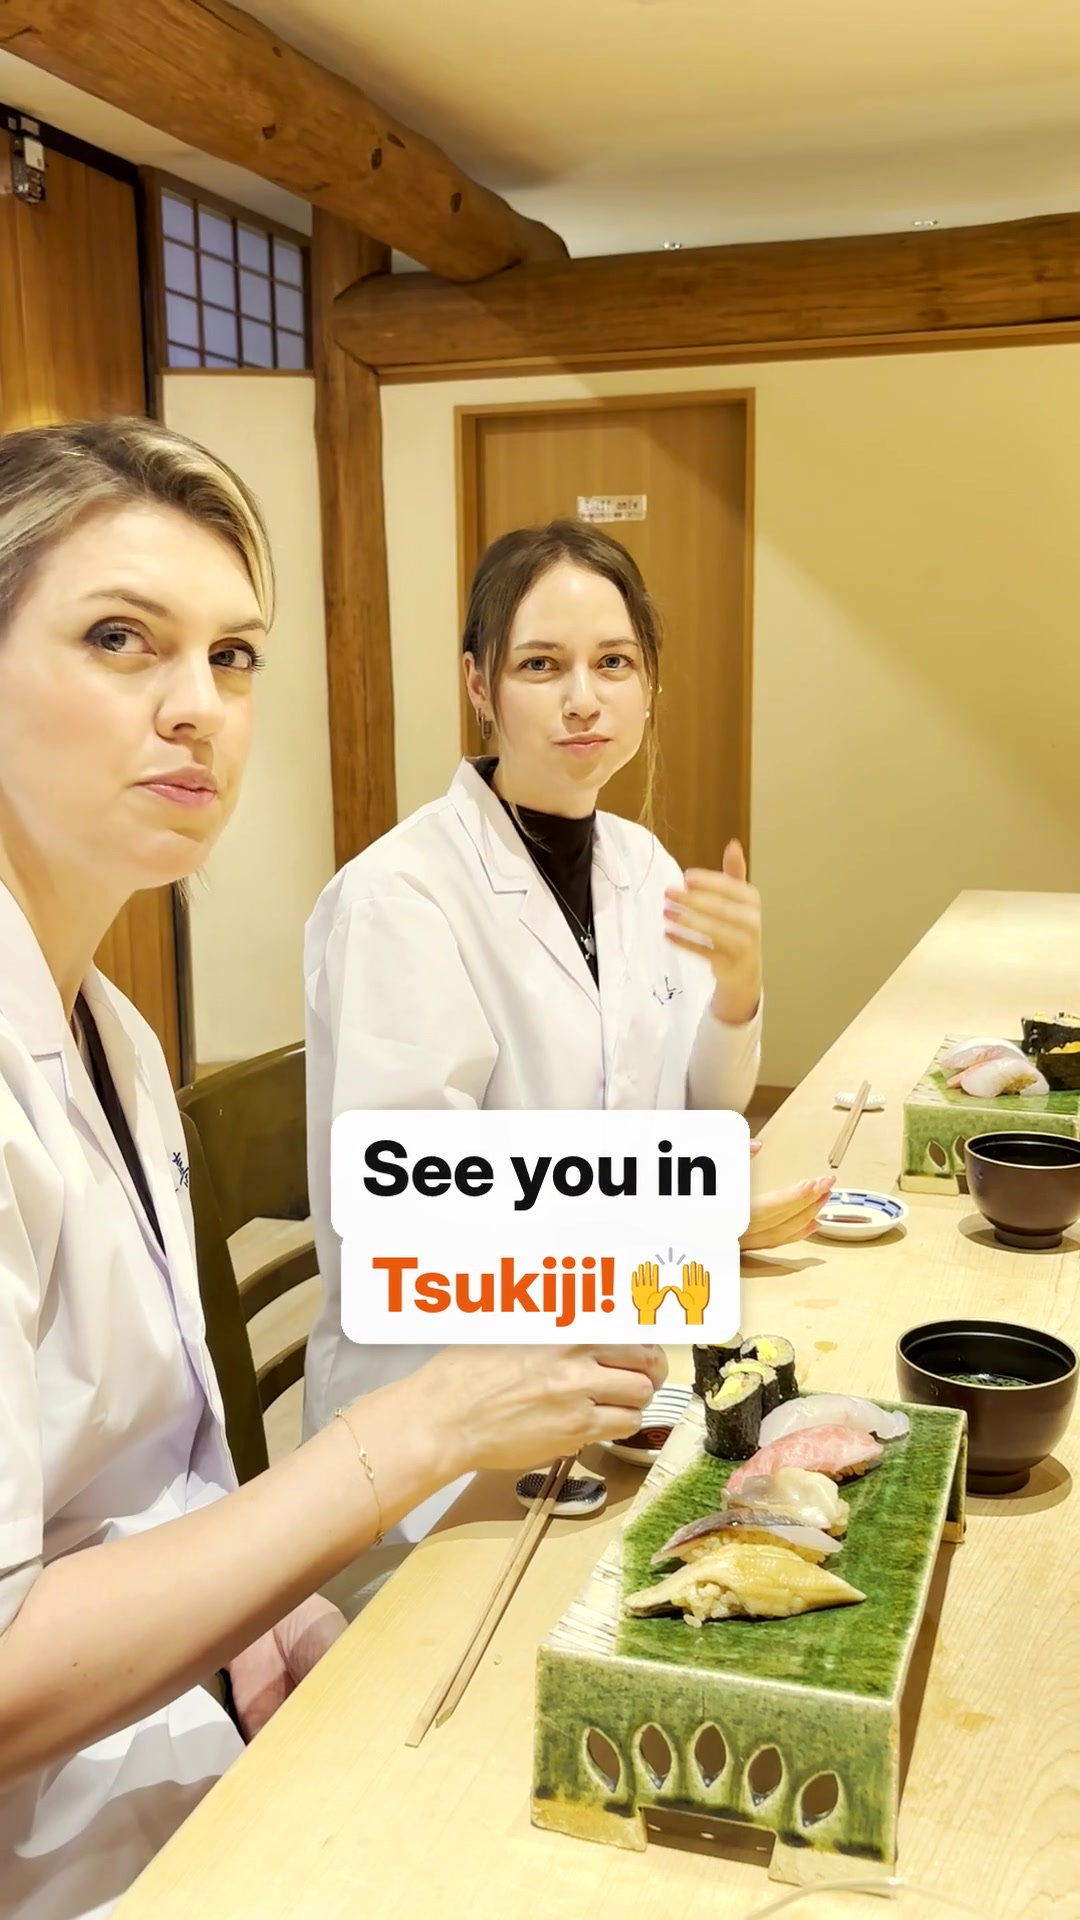
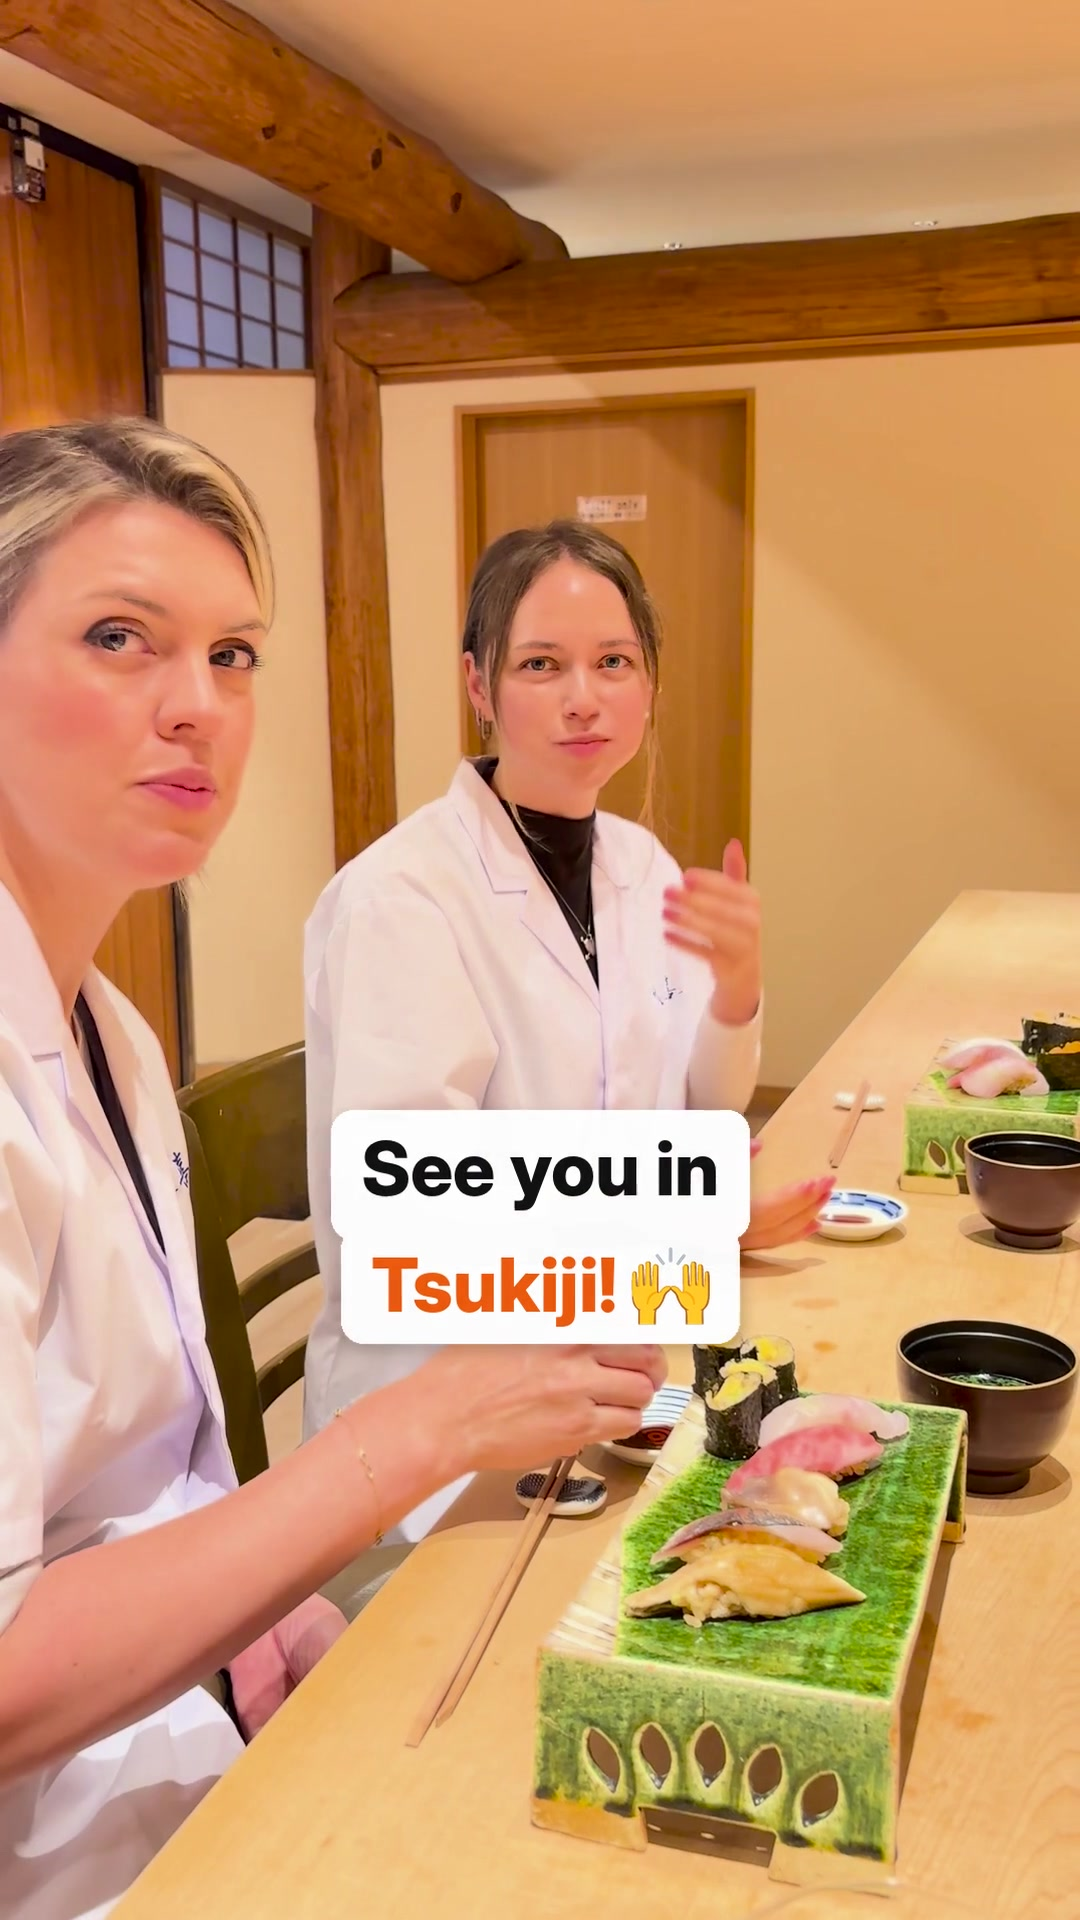
004作り直し：HDR素材をトーンマップしてオリジナルの色に（色加工なし）
Claude-Session: https://claude.ai/code/session_01RyJ5xhuQ5T9iHaCgxofhZy

diff --git a/pipeline/build_reel.py b/pipeline/build_reel.py
@@ -142,6 +142,18 @@ def grade_vf(src, t, ref, k_bright=0.5):
 
 
 BASE_LOOK = "eq=saturation=1.08:contrast=1.03"
+_hdr_cache = {}
+
+
+def hdr_vf(src):
+    if src not in _hdr_cache:
+        tr = subprocess.run(["ffprobe", "-v", "error", "-select_streams", "v:0", "-show_entries",
+                             "stream=color_transfer", "-of", "csv=p=0", src],
+                            capture_output=True, text=True).stdout.strip().strip(",")
+        _hdr_cache[src] = ("zscale=t=linear:npl=203,format=gbrpf32le,zscale=p=bt709,"
+                           "tonemap=mobius:desat=0,zscale=t=bt709:m=bt709:r=tv,format=yuv420p,"
+                           if tr in ("arib-std-b67", "smpte2084") else "")
+    return _hdr_cache[src]
 
 
 def warm_vf(src, t, post):
@@ -185,13 +197,18 @@ for bi, beat in enumerate(spec["beats"]):
     beat_start += bdur
     for c in beat["clips"]:
         out = os.path.join(tmp, f"seg{n:02d}.mp4")
-        if spec.get("look"):
+        if spec.get("original_color"):
+            look = "null"      # 2026-11-12: Shun wants the camera's own colours, no grading
+        elif spec.get("look"):
             look = warm_vf(find_src(c["src"]), c["in"] + min(0.5, c["dur"] / 2), spec["look"]["post"])
         elif REF and not (c["src"] == spec["match_ref"]["src"]):
             look = grade_vf(find_src(c["src"]), c["in"], REF)
         else:
             look = BASE_LOOK
-        vf = (f"[0:v]scale={W}:{H}:force_original_aspect_ratio=increase,crop={W}:{H},"
+        # iPhone HDR clips (HLG / Dolby Vision, from 2026-11-10 on) must be tone-mapped to SDR,
+        # otherwise they come out flat and washed-out. SDR clips pass through untouched.
+        tm = hdr_vf(find_src(c["src"]))
+        vf = (f"[0:v]{tm}scale={W}:{H}:force_original_aspect_ratio=increase,crop={W}:{H},"
               f"fps=30,{look},setsar=1[v];[v][1:v]overlay=0:0,format=yuv420p[o];"
               # real room sound: clean rumble, even out level between clips, soft edges at the cuts
               f"[0:a]aresample=48000,highpass=f=90,dynaudnorm=f=150:g=15:p=0.7,volume={ORIG_GAIN * c.get('vol', 1.0)},"

diff --git a/docs/video_style.md b/docs/video_style.md
@@ -10,7 +10,8 @@
 - 主役は**体験しているゲストの笑顔**。握る瞬間、食べた瞬間のリアクション、乾杯、集合写真を優先して使う
 - 縦 9:16、1080x1920、25〜30秒、1カット1〜2秒
 - 素材の質感（築地の本物のカウンター、職人、日本酒）は残す
-- **色味は自然な色をベースに、オレンジ味を強めに・明るめ、全カット統一**（しゅん指定 2026-11-12 最終。「薄い」とのことで彩度・コントラストを上げて濃いめに。強いオレンジは「不自然」、ほぼ自然な色は「違和感」で、その中間に決定）。edit.json に `"look": {"post": "colorchannelmixer=rr=1.06:gg=1.0:bb=0.86,eq=brightness=0.02:gamma=1.04:saturation=1.32:contrast=1.10"}` を入れる（各カットの白バランスと明るさを中立にそろえてから同じ色味をかける。004で採用）
+- **色味は撮影したままのオリジナル（色の加工をしない）**（しゅん指定 2026-11-12。オレンジ寄り・濃いめなど加工した004初版は「色合いが悪すぎる」として全SNSから削除→作り直し）。edit.json に `"original_color": true` を入れる
+- **iPhoneのHDR（HLG／Dolby Vision）素材は必ずSDRにトーンマップする**（11/10素材から該当。11/4以前はSDR）。変換しないと白っぽく色が抜け、色を足すほど不自然になる。build_reel.py が素材の color_transfer を見て自動で mobius トーンマップを入れる。新しい素材は取り込み時に `ffprobe -show_entries stream=color_transfer` で確認する
 - **カットの順番は実際の体験工程どおり**（しゅん指定 2026-11-07）：シャリ切り → 職人に教わる → 握り → 巻物 → 盛り付け → 実食。後の工程のカットを冒頭に持ってこない
 - 2人以上映るカットは、全員の表情（笑顔）を確認してから使う
 
